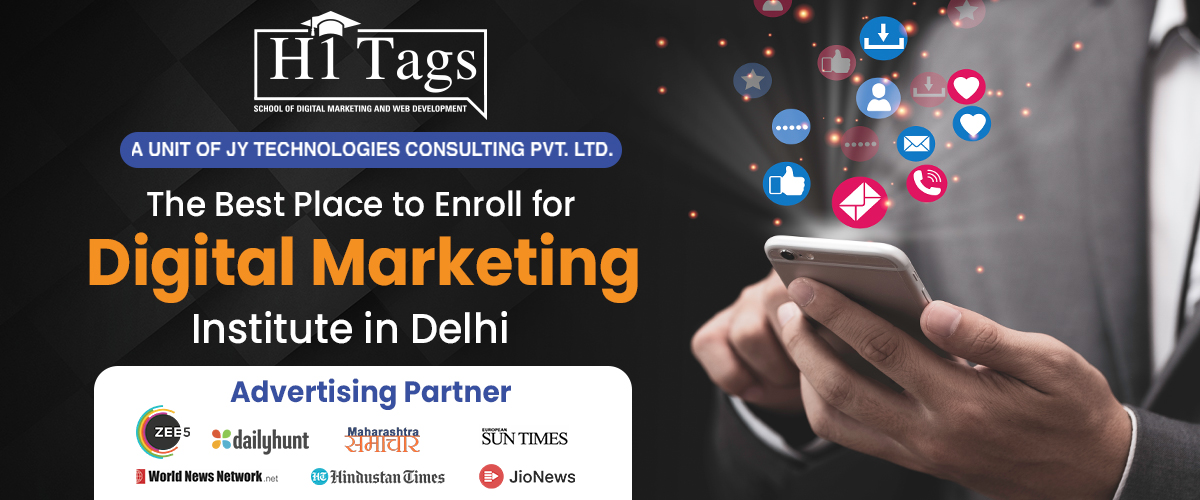
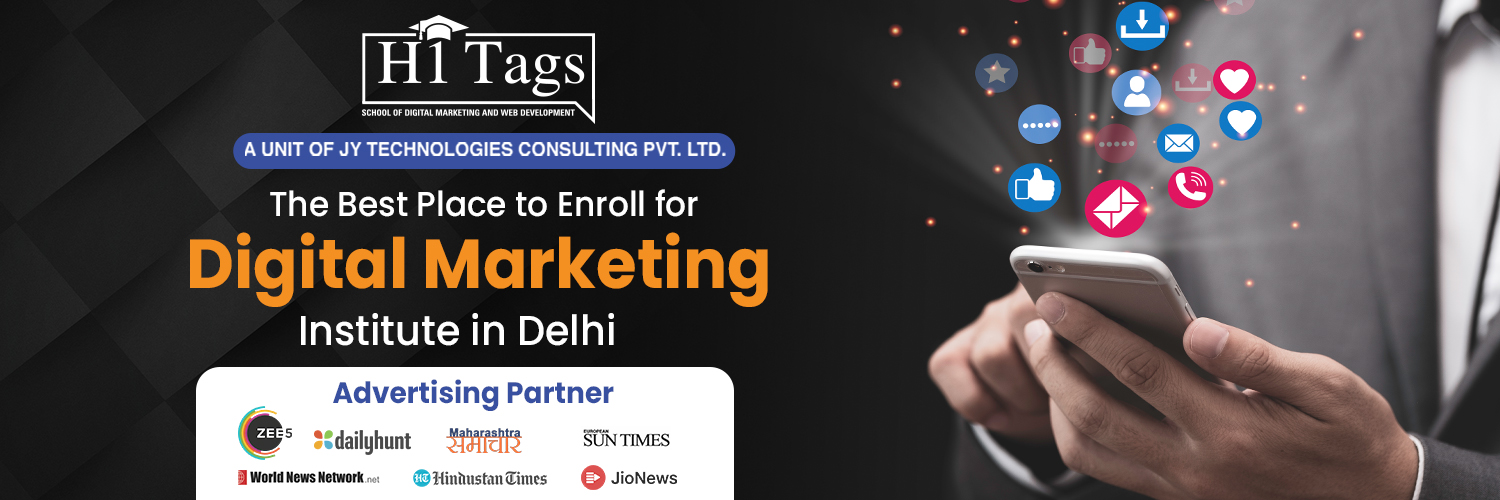
add head into post

diff --git a/h1blogs/pages/about/index.js b/h1blogs/pages/about/index.js
@@ -22,7 +22,7 @@ import { FaQuestionCircle } from "react-icons/fa";
 const About = () => {
   return (
     <Layout>
-      <Container maxW={"full"}>
+      <Container maxW={"full"} className={styles.background}>
         {/* image start here  */}
         <Box>
           <Image src={"/test/aboutbanner.jpeg"} />
@@ -32,7 +32,7 @@ const About = () => {
 
         {/* digital marketing Start */}
         <Box textAlign={"center"} my={10} mx={[5, 20]}>
-          <Heading textAlign={"center"}>
+          <Heading textAlign={"center"} py={5}>
             Best Digital Marketing Course in Delhi
           </Heading>
           <Text>
@@ -56,7 +56,9 @@ const About = () => {
             <Image src={"/test/ourmission.jpeg"} minH={"330px"} />
           </Box>
           <Box textAlign={"center"} px={5}>
-            <Heading textAlign={"center"}>Our Vision</Heading>
+            <Heading textAlign={"center"} py={5}>
+              Our Vision
+            </Heading>
             <Text fontSize={"18px"} lineHeight={"26px"}>
               We have the vision to expand our Institute's branches all around
               India so we can train the student to acquire the top Digital
@@ -74,7 +76,7 @@ const About = () => {
 
         {/* Track record start */}
         <Box textAlign={"center"} my={10} mx={[5, 20]}>
-          <Heading>Our Track Record…</Heading>
+          <Heading py={5}>Our Track Record…</Heading>
           <Text>
             We are a Digital Marketing Agency-based Institute that has strong
             partnerships with several IT companies. Well-reputed and known
@@ -141,7 +143,12 @@ const About = () => {
               pr={5}
             />
           </Box>
-          <Box>
+          <Box
+            className={styles.portfolio_background}
+            color="white"
+            p={5}
+            borderRadius={10}
+          >
             <Heading>MESSAGE FROM DIRECTOR</Heading>
             <Text>
               Our sole and complete mission is to teach the value of Digital
@@ -168,15 +175,21 @@ const About = () => {
         {/* cofounder portfolio starts here */}
 
         <SimpleGrid columns={[1, 2]} my={10} mx={[5, 20]}>
-          <Box>
-            <Heading>AKSHAY </Heading>
+          <Box
+            className={styles.portfolio_background}
+            color="white"
+            py={5}
+            borderRadius={10}
+          >
+            <Heading ml={5}>AKSHAY </Heading>
             <Highlight
+              ml={5}
               query="Co-founder"
-              styles={{ px: "1", py: "1", color: "red" }}
+              styles={{ px: "1", py: "1", color: "red", ml: "5" }}
             >
               Co-founder
             </Highlight>
-            <Text>
+            <Text w={"70%"} ml={5}>
               He is very good at organizing Digital Marketing Strategies and
               developing new and innovative SEO strategies. His planning skills
               for digital marketing strategies, SEO (on-page and off-page), and
@@ -192,7 +205,7 @@ const About = () => {
           <Box>
             {" "}
             <Image
-              src={"https://via.placeholder.com/600x300"}
+              src={"https://via.placeholder.com/600x400"}
               maxH={"500px"}
               w={"100%"}
               //style={{ float: "right" }}
@@ -204,7 +217,9 @@ const About = () => {
 
         {/* why choose us starts here */}
         <Box my={10} mx={[5, 20]}>
-          <Heading textAlign={"center"}>Why Choose US?</Heading>
+          <Heading textAlign={"center"} py={5}>
+            Why Choose US?
+          </Heading>
           <Text>
             H1 Tags -School of Digital Marketing and Web Development is one of
             India's top Digital Marketing institutions in Delhi-NCR. We studied
@@ -220,7 +235,9 @@ const About = () => {
 
         {/* your carrer matters starts here */}
         <Box my={10} mx={[5, 20]}>
-          <Heading textAlign={"center"}>Your Career Matters to us</Heading>
+          <Heading textAlign={"center"} py={5}>
+            Your Career Matters to us
+          </Heading>
           <UnorderedList>
             <ListItem>
               We provide our students with counseling and professional and

diff --git a/h1blogs/pages/blogs/[_id].js b/h1blogs/pages/blogs/[_id].js
@@ -11,6 +11,8 @@ import {
 import { getSinglePost } from "../redux/featured/actions";
 import { useDispatch, useSelector } from "react-redux";
 import Layout from "../../components/layout";
+import Head from "next/head";
+
 const Post = ({}) => {
   const router = useRouter();
   const { _id } = router.query;
@@ -29,33 +31,51 @@ const Post = ({}) => {
     <ChakraProvider>
       <Container maxW={"full"}>
         {!post.isLoading && post.data.isVisible && (
-          <Box mx={[0, "20%"]}>
-            <Heading textAlign={"center"} my={10}>
-              {post.data.title}{" "}
-            </Heading>
-
-            <Box style={{ alignItems: "center" }}>
-              <Image
-                src={`../uploads/${post.data.image}`}
-                alt="Dan Abramov"
-                boxSize={"100%"}
-                maxH={"400px"}
-                position={"cover"}
+          <>
+            <Head>
+              <title>
+                Add a Shopping Cart to Any Website in Minutes - Snipcart
+              </title>
+              <meta name="description" content={post.data.summary} />
+              <meta
+                property="og:title"
+                content="Add a Shopping Cart to Any Website in Minutes - Snipcart"
               />
-            </Box>
-
-            <Text>{post.data.slug}</Text>
-            <Text
-              style={{ fontSize: "17px" }}
-              dangerouslySetInnerHTML={{ __html: post.data.body }}
-            ></Text>
-            <Box>
-              <Heading as={"h4"} fontSize={"18px"}>
-                Summary
+              <meta
+                property="og:description"
+                content="Add a shopping cart to your site in minutes. Works with any site builder, CMS, and framework. 20 000+ merchants trust our e-commerce solution for their website. Join them!"
+              />
+              <meta property="og:url" content="https://snipcart.com/" />
+              <meta property="og:type" content="website" />
+            </Head>
+            <Box mx={[0, "20%"]}>
+              <Heading textAlign={"center"} my={10}>
+                {post.data.title}{" "}
               </Heading>
-              <Text>{post.data.summary}</Text>
+
+              <Box style={{ alignItems: "center" }}>
+                <Image
+                  src={`../uploads/${post.data.image}`}
+                  alt="Dan Abramov"
+                  boxSize={"100%"}
+                  maxH={"400px"}
+                  position={"cover"}
+                />
+              </Box>
+
+              <Text>{post.data.slug}</Text>
+              <Text
+                style={{ fontSize: "17px" }}
+                dangerouslySetInnerHTML={{ __html: post.data.body }}
+              ></Text>
+              <Box>
+                <Heading as={"h4"} fontSize={"18px"}>
+                  Summary
+                </Heading>
+                <Text>{post.data.summary}</Text>
+              </Box>
             </Box>
-          </Box>
+          </>
         )}
       </Container>
     </ChakraProvider>

diff --git a/h1blogs/styles/About.module.css b/h1blogs/styles/About.module.css
@@ -2,5 +2,10 @@
     /* background-image: url('../public//master-course1.jpg');
     background-attachment: fixed;
     background-repeat: no-repeat; */
-    background-color:  rgb(226 232 240);
+    /* background-color:rgb(0,155, 255); */
+    /* opacity:0.6; */
+}
+
+.portfolio_background{
+    background-color: #101C32;
 }

diff --git a/h1blogs/pages/Home/partials/Banner.js b/h1blogs/pages/Home/partials/Banner.js
@@ -4,7 +4,7 @@ export const Banner = () => {
   return (
     <>
       <Container maxW={"full"} p={0}>
-        <Image boxSize="100%" maxH={350} src="/h1banner.jpg" alt="h1" />
+        <Image boxSize="100%" src="/h1banner.jpg" alt="h1" />
       </Container>
     </>
   );
